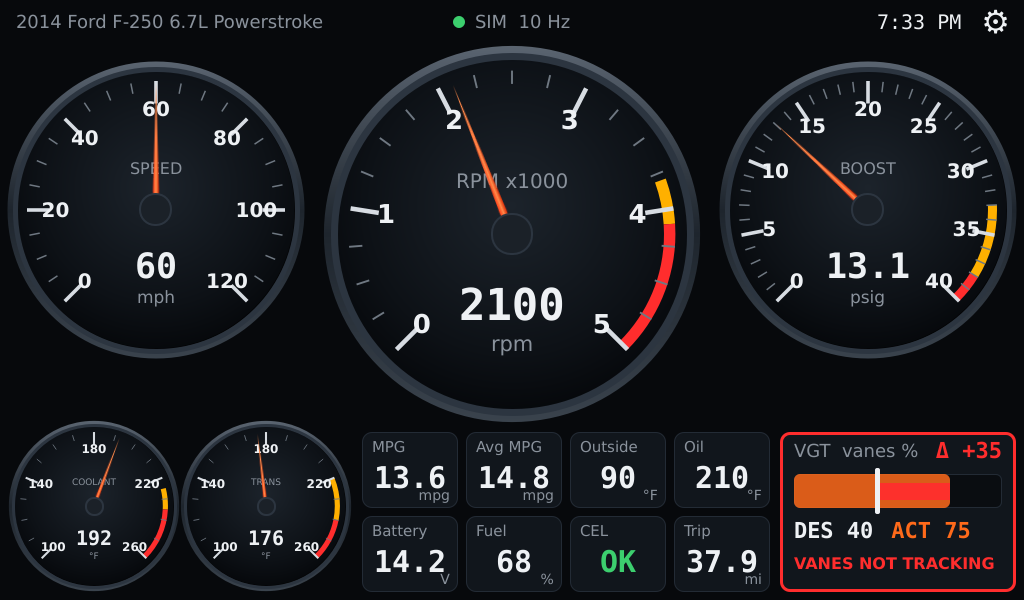
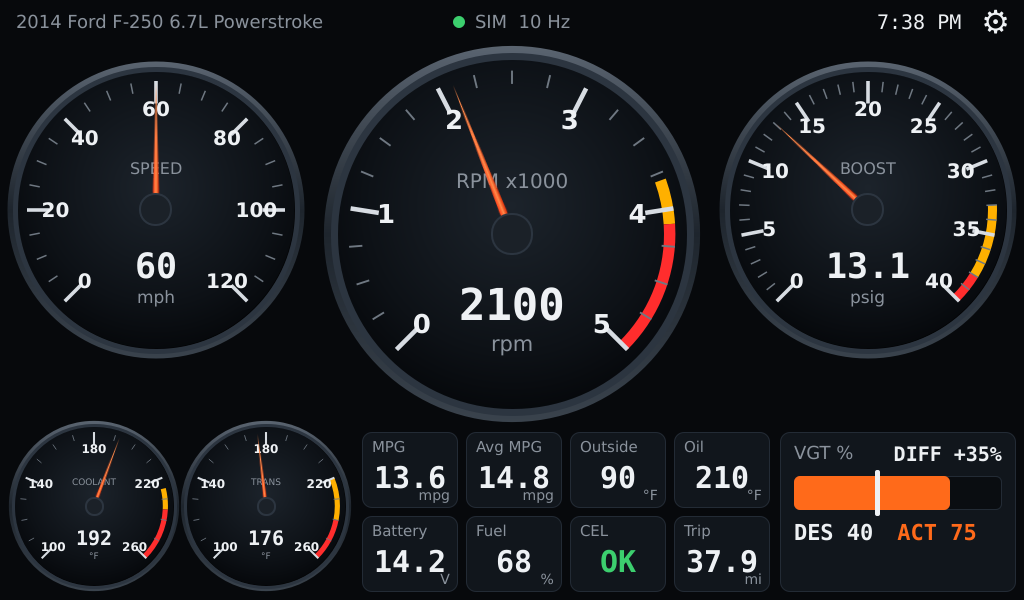
VGT: back to the simple bar, plus a DIFF % readout; gear estimator (not wired yet)
Per JP: revert the deviation band/alarm styling; show only DES, ACT and
DIFF (actual - desired, %). vgt_dev stays as a logged derived channel.

core/gear.py estimates gear from rpm/speed using trans + axle ratios and
tire size, as a fallback until the Ford TCM gear DID is found. Tested, not
yet hooked into the core service.

Claude-Session: https://claude.ai/code/session_01NB1fknYgN1kqnugTgy4PLe

Changed region(s): [[0.75, 0.72, 1.0, 0.99]]

diff --git a/gaugeworks/qml/DualBar.qml b/gaugeworks/qml/DualBar.qml
@@ -1,82 +1,39 @@
-// Two values that should track each other (VGT desired vs actual).
-// Fill = actual, white marker = desired, shaded band between them = deviation,
-// coloured by size. The panel only goes warn/alarm when the deviation is
-// SUSTAINED for holdMs (vanes lag briefly during normal transients).
+// Two values on one bar: actual = fill, desired = marker. Used for VGT vanes.
 import QtQuick
 
 Rectangle {
     id: d
     property var theme
-    property var cfg: ({})
-    property string label: cfg.label || "VGT"
+    property string label: "VGT"
     property real desired: 0
     property real actual: 0
     property bool desiredValid: false
     property bool actualValid: false
-
     readonly property var colors: theme ? theme.colors : ({})
-    readonly property real devWarn: cfg.dev_warn !== undefined ? cfg.dev_warn : 10
-    readonly property real devAlarm: cfg.dev_alarm !== undefined ? cfg.dev_alarm : 20
-    readonly property int holdMs: cfg.dev_hold !== undefined ? cfg.dev_hold * 1000 : 1500
-    readonly property bool bothValid: desiredValid && actualValid
-    readonly property real dev: bothValid ? actual - desired : 0
-    readonly property real absDev: Math.abs(dev)
-    readonly property int level: !bothValid ? 0 : absDev >= devAlarm ? 2 : absDev >= devWarn ? 1 : 0
-    property int held: 0              // level that has persisted >= holdMs
-    property bool flash: false
-
     function pct(v) { return Math.max(0, Math.min(100, v)) / 100 }
-    function levelColor(l) { return l === 2 ? colors.alarm : l === 1 ? colors.warn : colors.dim }
 
-    onLevelChanged: {
-        if (level < held) held = level      // clear immediately when it recovers
-        if (level > held) holdTimer.restart()
-        else holdTimer.stop()
-    }
-    Timer { id: holdTimer; interval: d.holdMs; onTriggered: d.held = d.level }
-    Timer { running: d.held === 2; interval: 400; repeat: true; onTriggered: d.flash = !d.flash }
-
-    color: held === 2 && flash ? Qt.darker(colors.alarm, 2.2) : (colors.panel || "#111")
-    border.color: held > 0 ? levelColor(held) : (colors.panelBorder || "#333")
-    border.width: held > 0 ? 3 : 1
+    color: colors.panel || "#111"
+    border.color: colors.panelBorder || "#333"
     radius: 10
 
     Text {
-        x: 14; y: 8
-        text: d.label + "  vanes %"
+        x: 14; y: 10
+        text: d.label + " %"
         color: d.colors.dim || "gray"
         font.family: d.theme ? d.theme.fonts.label : ""
         font.pixelSize: 18
     }
-    Text {  // live deviation readout, top-right
-        anchors.right: parent.right; anchors.rightMargin: 14; y: 6
-        text: d.bothValid ? "Δ " + (d.dev >= 0 ? "+" : "") + d.dev.toFixed(0) : "Δ --"
-        color: d.bothValid ? d.levelColor(d.level) : (d.colors.dim || "gray")
-        font.family: d.theme ? d.theme.fonts.digits : ""
-        font.pixelSize: 22; font.bold: true
-    }
     Rectangle {
         id: track
-        x: 14; y: 42; width: d.width - 28; height: 34; radius: 6
+        x: 14; y: 44; width: d.width - 28; height: 34; radius: 6
         color: "#0a0d11"; border.color: d.colors.panelBorder || "#333"
-        Rectangle {  // actual = fill
+        Rectangle {
             width: d.actualValid ? parent.width * d.pct(d.actual) : 0
             height: parent.height; radius: 6
             color: d.colors.accent || "orange"
-            opacity: 0.85
             Behavior on width { SmoothedAnimation { velocity: 600 } }
         }
-        Rectangle {  // deviation band between desired and actual
-            visible: d.bothValid && d.absDev >= 1
-            x: parent.width * d.pct(Math.min(d.desired, d.actual))
-            width: parent.width * Math.abs(d.pct(d.actual) - d.pct(d.desired))
-            y: parent.height * 0.25; height: parent.height * 0.5
-            color: d.levelColor(d.level)
-            opacity: d.level === 0 ? 0.5 : 0.95
-            Behavior on x { SmoothedAnimation { velocity: 600 } }
-            Behavior on width { SmoothedAnimation { velocity: 600 } }
-        }
-        Rectangle {  // desired = marker
+        Rectangle {  // desired marker
             visible: d.desiredValid
             x: parent.width * d.pct(d.desired) - width / 2
             y: -6; width: 5; height: parent.height + 12; radius: 2
@@ -84,8 +41,17 @@ Rectangle {
             Behavior on x { SmoothedAnimation { velocity: 600 } }
         }
     }
+    Text {  // % difference, actual - desired
+        anchors.right: parent.right; anchors.rightMargin: 14; y: 10
+        text: d.desiredValid && d.actualValid
+              ? "DIFF " + (d.actual - d.desired >= 0 ? "+" : "") + (d.actual - d.desired).toFixed(0) + "%"
+              : "DIFF --"
+        color: d.colors.text || "white"
+        font.family: d.theme ? d.theme.fonts.digits : ""
+        font.pixelSize: 20; font.bold: true
+    }
     Row {
-        x: 14; y: 86; spacing: 18
+        x: 14; y: 88; spacing: 24
         Text {
             text: "DES " + (d.desiredValid ? d.desired.toFixed(0) : "--")
             color: d.colors.text || "white"
@@ -96,14 +62,5 @@ Rectangle {
             color: d.colors.accent || "orange"
             font.family: d.theme ? d.theme.fonts.digits : ""; font.pixelSize: 22; font.bold: true
         }
-    }
-    Text {
-        x: 14; y: 122; width: d.width - 28
-        visible: d.held > 0
-        text: d.held === 2 ? "VANES NOT TRACKING" : "VANE MISMATCH"
-        color: d.levelColor(d.held)
-        font.family: d.theme ? d.theme.fonts.label : ""
-        font.pixelSize: 16; font.bold: true
-        fontSizeMode: Text.HorizontalFit; minimumPixelSize: 11; elide: Text.ElideRight
     }
 }

diff --git a/gaugeworks/qml/Main.qml b/gaugeworks/qml/Main.qml
@@ -109,7 +109,7 @@ Rectangle {
             readonly property var c: gauges.vgt || ({})
             visible: !!gauges.vgt
             x: 780; y: 432; width: 236; height: 160
-            theme: root.theme; cfg: c
+            theme: root.theme; label: c.label || "VGT"
             desired: val(c.desired); desiredValid: ok(c.desired)
             actual: val(c.actual); actualValid: ok(c.actual)
         }

diff --git a/core/gear.py b/core/gear.py
@@ -1,0 +1,67 @@
+"""Estimated transmission gear from engine RPM and vehicle speed.
+
+The truck doesn't report gear over standard OBD, so we compare the measured
+overall ratio (engine rpm / wheel rpm) with the transmission's gear ratios
+times the axle ratio. Needs the profile's `gear:` block:
+
+    gear: {ratios: [3.97, 2.32, 1.52, 1.15, 0.86, 0.67], axle: 3.55, tire_diameter_in: 33.2}
+
+Reports None (shown as "-") when stopped, coasting with the converter unlocked,
+or mid-shift (no ratio within `tolerance`). Holds the last gear briefly so the
+display doesn't flicker during a shift.
+"""
+
+from __future__ import annotations
+
+import math
+import time
+
+from .bus import Bus, Reading
+
+KMH_PER_MS = 3.6
+
+
+class GearEstimator:
+    def __init__(self, bus: Bus, cfg: dict, clock=time.monotonic):
+        self.bus = bus
+        self.clock = clock
+        self.ratios = [float(r) for r in cfg["ratios"]]
+        self.axle = float(cfg["axle"])
+        self.tire_m = float(cfg["tire_diameter_in"]) * 0.0254
+        self.tol = float(cfg.get("tolerance", 0.12))       # relative ratio error allowed
+        self.min_kmh = float(cfg.get("min_speed_kmh", 8))
+        self.hold = float(cfg.get("hold_s", 1.0))
+        self._rpm: float | None = None
+        self._kmh: float | None = None
+        self._gear: int | None = None
+        self._last_match = 0.0
+        bus.subscribe(self.on_reading)
+
+    def estimate(self, rpm: float, kmh: float) -> tuple[int | None, float | None]:
+        """(gear, measured transmission ratio) or (None, ratio) if no match."""
+        if kmh < self.min_kmh or rpm < 300:
+            return None, None
+        wheel_rpm = (kmh / KMH_PER_MS) / (math.pi * self.tire_m) * 60
+        trans_ratio = rpm / (wheel_rpm * self.axle)
+        best = min(range(len(self.ratios)), key=lambda i: abs(trans_ratio / self.ratios[i] - 1))
+        if abs(trans_ratio / self.ratios[best] - 1) <= self.tol:
+            return best + 1, trans_ratio
+        return None, trans_ratio
+
+    def on_reading(self, r: Reading) -> None:
+        if r.key == "rpm":
+            self._rpm = r.value
+        elif r.key == "speed":
+            self._kmh = r.value
+        else:
+            return
+        if r.key != "speed" or self._rpm is None or self._kmh is None:
+            return
+        now = self.clock()
+        gear, _ = self.estimate(self._rpm, self._kmh)
+        if gear is not None:
+            self._gear, self._last_match = gear, now
+        elif self._kmh < self.min_kmh or now - self._last_match > self.hold:
+            self._gear = None
+        self.bus.publish(Reading("gear", None if self._gear is None else float(self._gear), "",
+                                 time.time(), "" if self._gear is not None else "no gear"))

diff --git a/tests/test_gear.py b/tests/test_gear.py
@@ -1,0 +1,34 @@
+import math
+
+from core.bus import Bus, Reading
+from core.gear import GearEstimator
+
+CFG = {"ratios": [3.97, 2.32, 1.52, 1.15, 0.86, 0.67], "axle": 3.55, "tire_diameter_in": 33.2}
+
+
+def rpm_for(gear, kmh):
+    wheel_rpm = (kmh / 3.6) / (math.pi * 33.2 * 0.0254) * 60
+    return wheel_rpm * 3.55 * CFG["ratios"][gear - 1]
+
+
+def test_each_gear_and_stopped():
+    est = GearEstimator(Bus(), CFG)
+    for g, kmh in [(1, 15), (2, 30), (3, 45), (4, 60), (5, 90), (6, 110)]:
+        assert est.estimate(rpm_for(g, kmh), kmh)[0] == g
+    assert est.estimate(700, 0)[0] is None
+    assert est.estimate(rpm_for(4, 60) * 1.15, 60)[0] is None  # between 3rd and 4th: mid-shift
+
+
+def test_publishes_and_holds_briefly():
+    bus, t = Bus(), [0.0]
+    GearEstimator(bus, CFG, clock=lambda: t[0])
+    bus.publish(Reading("rpm", rpm_for(3, 45), "rpm", 0))
+    bus.publish(Reading("speed", 45, "km/h", 0))
+    assert bus.latest()["gear"].value == 3
+    t[0] = 0.5
+    bus.publish(Reading("rpm", rpm_for(3, 45) * 1.25, "rpm", 0))  # between 2nd and 3rd
+    bus.publish(Reading("speed", 45, "km/h", 0))
+    assert bus.latest()["gear"].value == 3                         # held
+    t[0] = 2.0
+    bus.publish(Reading("speed", 45, "km/h", 0))
+    assert bus.latest()["gear"].value is None

diff --git a/gaugeworks/backend.py b/gaugeworks/backend.py
@@ -169,10 +169,7 @@ class Backend(QObject):
         for name, g in (gw.get("gauges") or {}).items():
             if "desired" in g:  # dual (VGT)
                 gauges[name] = {"desired": g["desired"], "actual": g["actual"],
-                                "label": g.get("label", name.upper()),
-                                "dev_warn": float(g.get("dev_warn", 10)),
-                                "dev_alarm": float(g.get("dev_alarm", 20)),
-                                "dev_hold": float(g.get("dev_hold", 1.5))}
+                                "label": g.get("label", name.upper())}
             elif g.get("key") in ch:
                 gauges[name] = gauge_config(g, ch[g["key"]].get("units", ""), imp)
         tiles = [tile_config(k, ch.get(k, {}), imp) for k in (gw.get("tiles") or [])]
